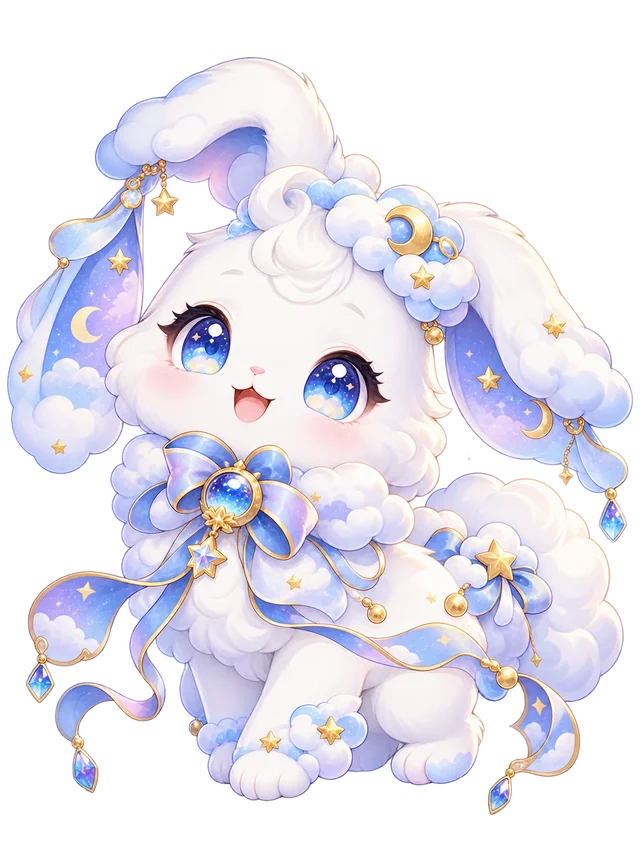
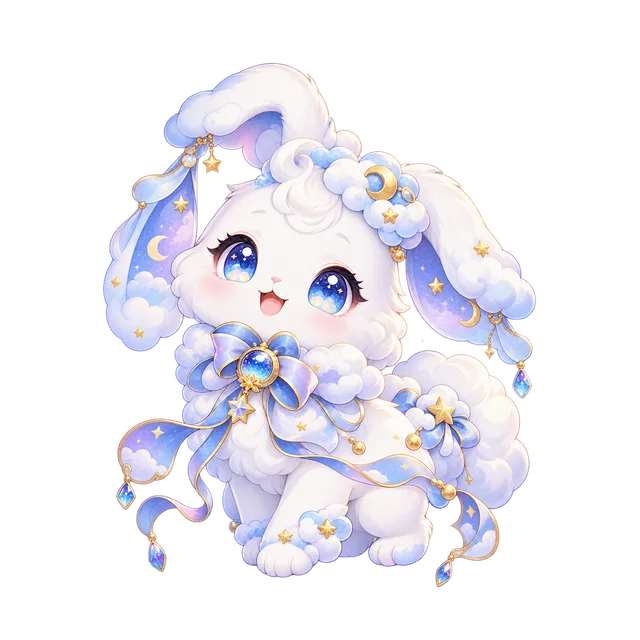
Install Batch 3 game artwork

diff --git a/src/lib/components/PetGacha.svelte b/src/lib/components/PetGacha.svelte
@@ -36,7 +36,7 @@
         <span class="absolute top-1/2 -right-3 h-8 w-2 rounded-full bg-[#e6ad48] shadow-[2px_2px_0_#fff]" aria-hidden="true"></span>
       </div>
     {/if}
-    <div class="absolute top-[23%] left-1/2 z-10 grid h-[44%] w-[40%] -translate-x-1/2 place-items-center">
+    <div class="absolute top-[18%] left-1/2 z-10 grid h-[48%] w-[52%] -translate-x-1/2 place-items-center">
       <div class="pet-preview h-full w-full"><AssetPortrait src={focus.imagePath} alt={focus.name} placeholder={focus.placeholder} kind="pet" /></div>
     </div>
     {#if busy}

diff --git a/src/lib/data/config.ts b/src/lib/data/config.ts
@@ -90,8 +90,8 @@ export const PETS = [
 export const PET_GACHA_COST = 90;
 
 export const GACHA_ARTWORK: Record<'machine' | 'capsule', string | null> = {
-  machine: null,
-  capsule: null,
+  machine: 'assets/gacha/pet-gacha-machine.png',
+  capsule: 'assets/gacha/gacha-capsule.png',
 };
 
 export const PROFILE_BACKGROUNDS = [

diff --git a/doc/ART_GENERATION_BRIEF.md b/doc/ART_GENERATION_BRIEF.md
@@ -16,8 +16,8 @@
 
 ## GPT Batch Prompts: 10 Separate Images
 
-There are 28 planned outputs below: the 25 core assets in Priority 1 and Priority 2, two
-optional Gacha upgrades, and a symbol-only brand mark requested alongside the Game Center logo.
+There are 28 outputs below: the 25 core assets in Priority 1 and Priority 2, two Gacha assets,
+and a symbol-only brand mark requested alongside the Game Center logo.
 Run the three prompts one at a time. Each prompt asks for up to 10 individual image files, never
 one combined sheet. If the image tool cannot return separate files, ask it to render them one by
 one within that batch. The four Pass images already installed in `public/assets/pass/` are not
@@ -34,7 +34,8 @@ as `mali-1.png` and maps their number through a fixed order. It will silently ig
 names like `mali-default.png`, `mali-festival.png` or `pudding.png`; do NOT run `npm run art` on
 these batches. Avatar and Pet images also need explicit runtime IDs/mapping, and outfit variants
 are future art until the UI exposes them. Keep these originals in `art-source/` until that
-integration is planned. Gacha files stay optional until `GACHA_ARTWORK` is mapped.
+integration is planned. The Batch 3 Gacha files are now supplied and active; do not generate them
+again unless replacing a specific asset.
 
 ### Batch 1: Brand, Entry, Profile and Currency (10)
 
@@ -182,7 +183,10 @@ Verify all 10 are separate files with real alpha. Overlay the three Mali images 
 their face size, feet baseline, body position and back attachment point must align exactly.
 ```
 
-### Batch 3: Remaining Avatar, Wings, Pets and Gacha (8)
+### Batch 3: Remaining Avatar, Wings, Pets and Gacha (8) — Supplied
+
+This batch was delivered on 2026-10-28 and is now installed. Do not run this prompt again unless
+you intend to replace a specific image.
 
 Attach current references from `public/assets/avatars/luna.webp`, `public/assets/pets/`, and
 `public/assets/wings/` for the matching named assets. Do not invent a replacement identity where
@@ -251,8 +255,8 @@ Before delivery, confirm exactly eight individual files, matching filenames and 
 transparent alpha, no clipped edges and no reference character identity drift.
 ```
 
-The symbol-only logo and both Gacha images are optional improvements to existing fallbacks. Do
-not let them block work on the 25 core priority assets. The two optional Pass assets, optional
+The symbol-only logo is an optional improvement to an existing fallback. Do not let it block work
+on the 25 core priority assets. The two optional Pass assets, optional
 moon-moth wings and modular Avatar rig later in this brief are intentionally excluded from these
 three batches.
 
@@ -355,11 +359,10 @@ Not green-heavy, not purple-heavy, not dark, not blurred, no bokeh/orb decoratio
 - Deliver four separate exact filenames, not one combined image.
 - Reject fake painted level numbers/prices. All product terms stay editable in code.
 
-## Recommended Next: Pet Gacha Art
+## Pet Gacha Art
 
-The Gacha screen now has a CSS-built machine and uses the existing Pet portraits. These two
-transparent assets are optional art upgrades, not blockers; the UI has a fallback until the
-files are delivered.
+The two supplied transparent assets are installed and active in the Gacha screen. The UI keeps
+its CSS/illustration fallback if either image fails to load.
 
 | Priority | Exact Filename | Canvas | Alpha | Composition / Use |
 | --- | --- | --- | --- | --- |
@@ -372,8 +375,8 @@ window. The app overlays the currently previewed Pet there. The single capsule s
 about 12% padding and remain readable at 40px. Keep labels, rarity, price, ticket count and
 odds as live UI text, not painted into either PNG.
 
-Originals go in `art-source/gacha/`; reviewed runtime files go in MGC `public/assets/gacha/`.
-The optional `GACHA_ARTWORK` mapping in `src/lib/data/config.ts` is currently null:
+Originals are preserved in `art-source/gacha/`; runtime files are in MGC `public/assets/gacha/`.
+`GACHA_ARTWORK` in `src/lib/data/config.ts` maps them like this:
 
 ```ts
 machine: 'assets/gacha/pet-gacha-machine.png',
